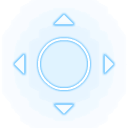
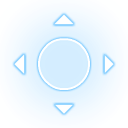
Add resize function

diff --git a/MobilePadController/Move/style.less b/MobilePadController/Move/style.less
@@ -54,7 +54,7 @@
         margin-top: -@handlerSize/2;
         margin-left:  -@handlerSize/2;
         overflow: hidden;
[2 lines of base64/hex data omitted]
         background-position: center center;
         background-repeat: repeat;
         background-size: contain;

diff --git a/MobilePadController/Move/script.js b/MobilePadController/Move/script.js
@@ -94,6 +94,20 @@ window.Rendxx.Game.Client.Controller = window.Rendxx.Game.Client.Controller || {
             removeAnimation();
         };
 
+        this.resize = function () {
+            // data
+            range = html_base.width();
+
+            // css
+            html_wrap.css(_css);
+            html_base.css({
+                'width': html_wrap.width() - 20,
+                'height': html_wrap.height() - 20,
+                'top': '10px',
+                'left': '10px'
+            });
+        };
+
         // private function ---------------------------------------------
 
         // update handle position
@@ -209,18 +223,7 @@ window.Rendxx.Game.Client.Controller = window.Rendxx.Game.Client.Controller || {
             html_base = $(HTML.base).appendTo(html_wrap);
             html_handlerBase = $(HTML.handlerBase).appendTo(html_wrap);
             html_handler = $(HTML.handler).appendTo(html_wrap);
-
-            // data
-            range = html_base.width();
-
-            // css
-            html_wrap.css(_css);
-            html_base.css({
-                'width': html_wrap.width() - 20,
-                'height': html_wrap.height() - 20,
-                'top': '10px',
-                'left': '10px'
-            });
+            that.resize();
         };
 
         var _setOpts = function (opts) {

diff --git a/MobilePadController/Button/controller.button.js b/MobilePadController/Button/controller.button.js
@@ -80,6 +80,17 @@ window.Rendxx.Game.Client.Controller = window.Rendxx.Game.Client.Controller || {
             using = false;
         };
 
+        this.resize = function () {
+            if (_css !== null) html_wrap.css(_css);
+            html_handler.css({
+                'width': html_wrap.width() - 20,
+                'height': html_wrap.height() - 20,
+                'top': '10px',
+                'left': '10px'
+            });
+            if (_cssHandler !== null) html_handler.css(_cssHandler);
+        };
+
         // private function ---------------------------------------------
 
         // setup ---------------------------------------------
@@ -126,14 +137,7 @@ window.Rendxx.Game.Client.Controller = window.Rendxx.Game.Client.Controller || {
             html_handler = $(HTML.handler).appendTo(html_wrap);
             html_sensor = $(HTML.sensor).appendTo(html_wrap);
             // css
-            if (_css !== null) html_wrap.css(_css);
-            html_handler.css({
-                'width': html_wrap.width() - 20,
-                'height': html_wrap.height() - 20,
-                'top': '10px',
-                'left': '10px'
-            });
-            if (_cssHandler!==null) html_handler.css(_cssHandler);
+            that.resize();
         };
 
         var _setOpts = function (opts) {

diff --git a/MobilePadController/Button/script.js b/MobilePadController/Button/script.js
@@ -80,6 +80,17 @@ window.Rendxx.Game.Client.Controller = window.Rendxx.Game.Client.Controller || {
             using = false;
         };
 
+        this.resize = function () {
+            if (_css !== null) html_wrap.css(_css);
+            html_handler.css({
+                'width': html_wrap.width() - 20,
+                'height': html_wrap.height() - 20,
+                'top': '10px',
+                'left': '10px'
+            });
+            if (_cssHandler !== null) html_handler.css(_cssHandler);
+        };
+
         // private function ---------------------------------------------
 
         // setup ---------------------------------------------
@@ -126,14 +137,7 @@ window.Rendxx.Game.Client.Controller = window.Rendxx.Game.Client.Controller || {
             html_handler = $(HTML.handler).appendTo(html_wrap);
             html_sensor = $(HTML.sensor).appendTo(html_wrap);
             // css
-            if (_css !== null) html_wrap.css(_css);
-            html_handler.css({
-                'width': html_wrap.width() - 20,
-                'height': html_wrap.height() - 20,
-                'top': '10px',
-                'left': '10px'
-            });
-            if (_cssHandler!==null) html_handler.css(_cssHandler);
+            that.resize();
         };
 
         var _setOpts = function (opts) {

diff --git a/MobilePadController/Info/script.js b/MobilePadController/Info/script.js
@@ -58,6 +58,13 @@ window.Rendxx.Game.Client.Controller = window.Rendxx.Game.Client.Controller || {
             hideFunc = setTimeout(300, function () { html_wrap.hide(); hideFunc = null; });
         };
 
+        this.resize = function () {
+            // data
+
+            // css
+            html_wrap.css(_css);
+        };
+
         // setup ---------------------------------------------
         var _setupFunc = function () {
             html_wrap[0].addEventListener('touchend', function (event) {
@@ -69,11 +76,7 @@ window.Rendxx.Game.Client.Controller = window.Rendxx.Game.Client.Controller || {
         var _setupHtml = function () {
             // html
             html_wrap = $(HTML.wrap).appendTo(html_container);
-
-            // data
-
-            // css
-            html_wrap.css(_css);
+            that.resize();
         };
 
         var _setOpts = function (opts) {
